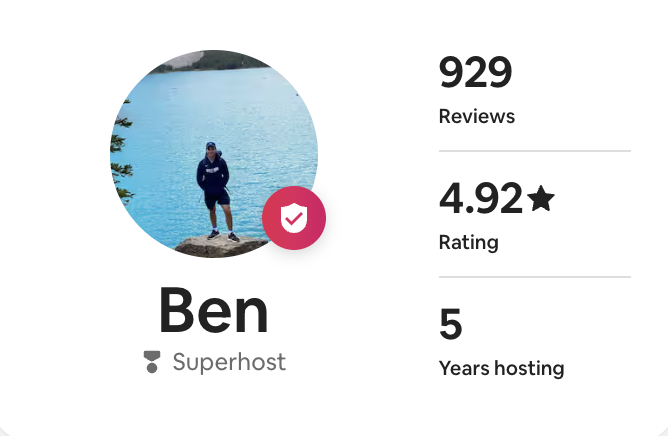
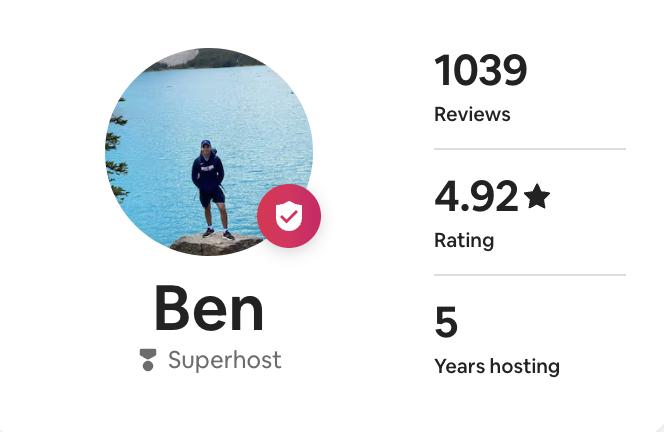
Update Superhost profile to 1039 Airbnb reviews on list-property page.

diff --git a/src/pages/list-property/index.tsx b/src/pages/list-property/index.tsx
@@ -388,7 +388,7 @@ const ListProperty = () => {
                   <div className="relative rounded-2xl overflow-hidden shadow-lg ring-1 ring-gray-200 bg-gray-50">
                     <Image
                       src="/photos/homepage/list-property/airbnb-superhost-profile.png"
-                      alt="Ben's Airbnb Superhost profile — 4.92 rating and 929 reviews"
+                      alt="Ben's Airbnb Superhost profile — 4.92 rating and 1039 reviews"
                       width={640}
                       height={480}
                       className="w-full h-auto object-contain transition-opacity group-hover:opacity-95"

diff --git a/src/data/listPropertyContent.ts b/src/data/listPropertyContent.ts
@@ -17,7 +17,7 @@ export const HERO_SERVICE_STRIP = [
 
 export const TRUST_STATS = [
   { value: "4.92", label: "Guest Rating on Airbnb", airbnbAccent: true },
-  { value: "1050+", label: "Guest Airbnb Reviews", airbnbAccent: true },
+  { value: "1039", label: "Guest Airbnb Reviews", airbnbAccent: true },
   { value: "Superhost", label: "Airbnb Status", airbnbAccent: true },
   { value: "Premier Host", label: "Vrbo Status", vrboAccent: true },
   { value: "Local", label: "Whistler Team" },
